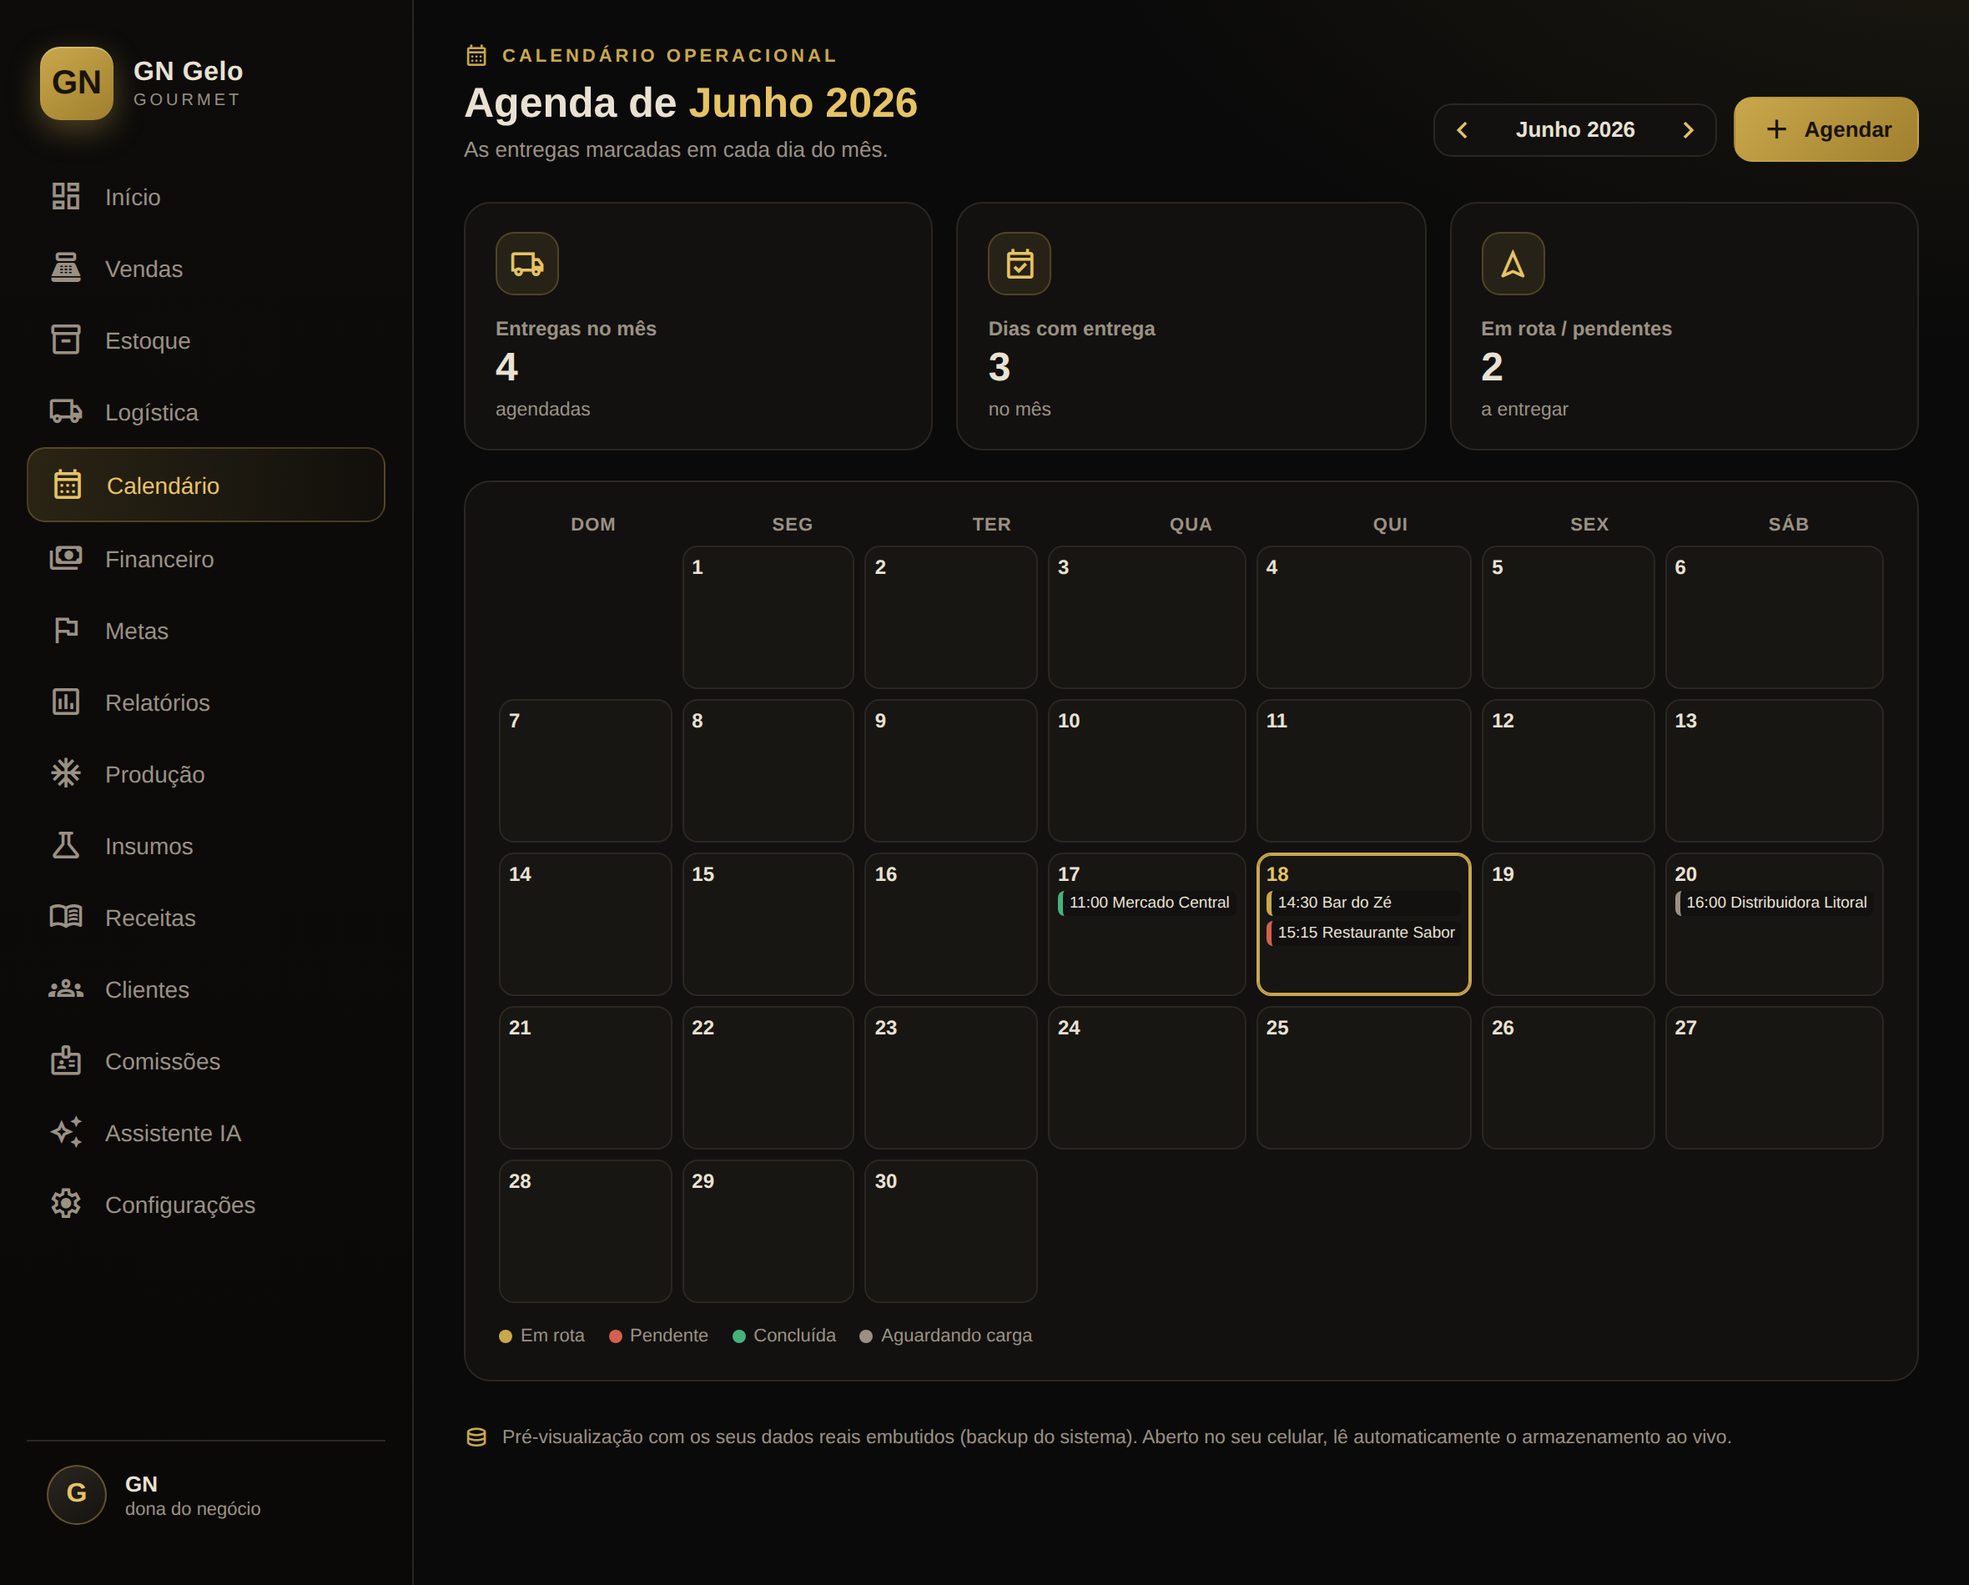
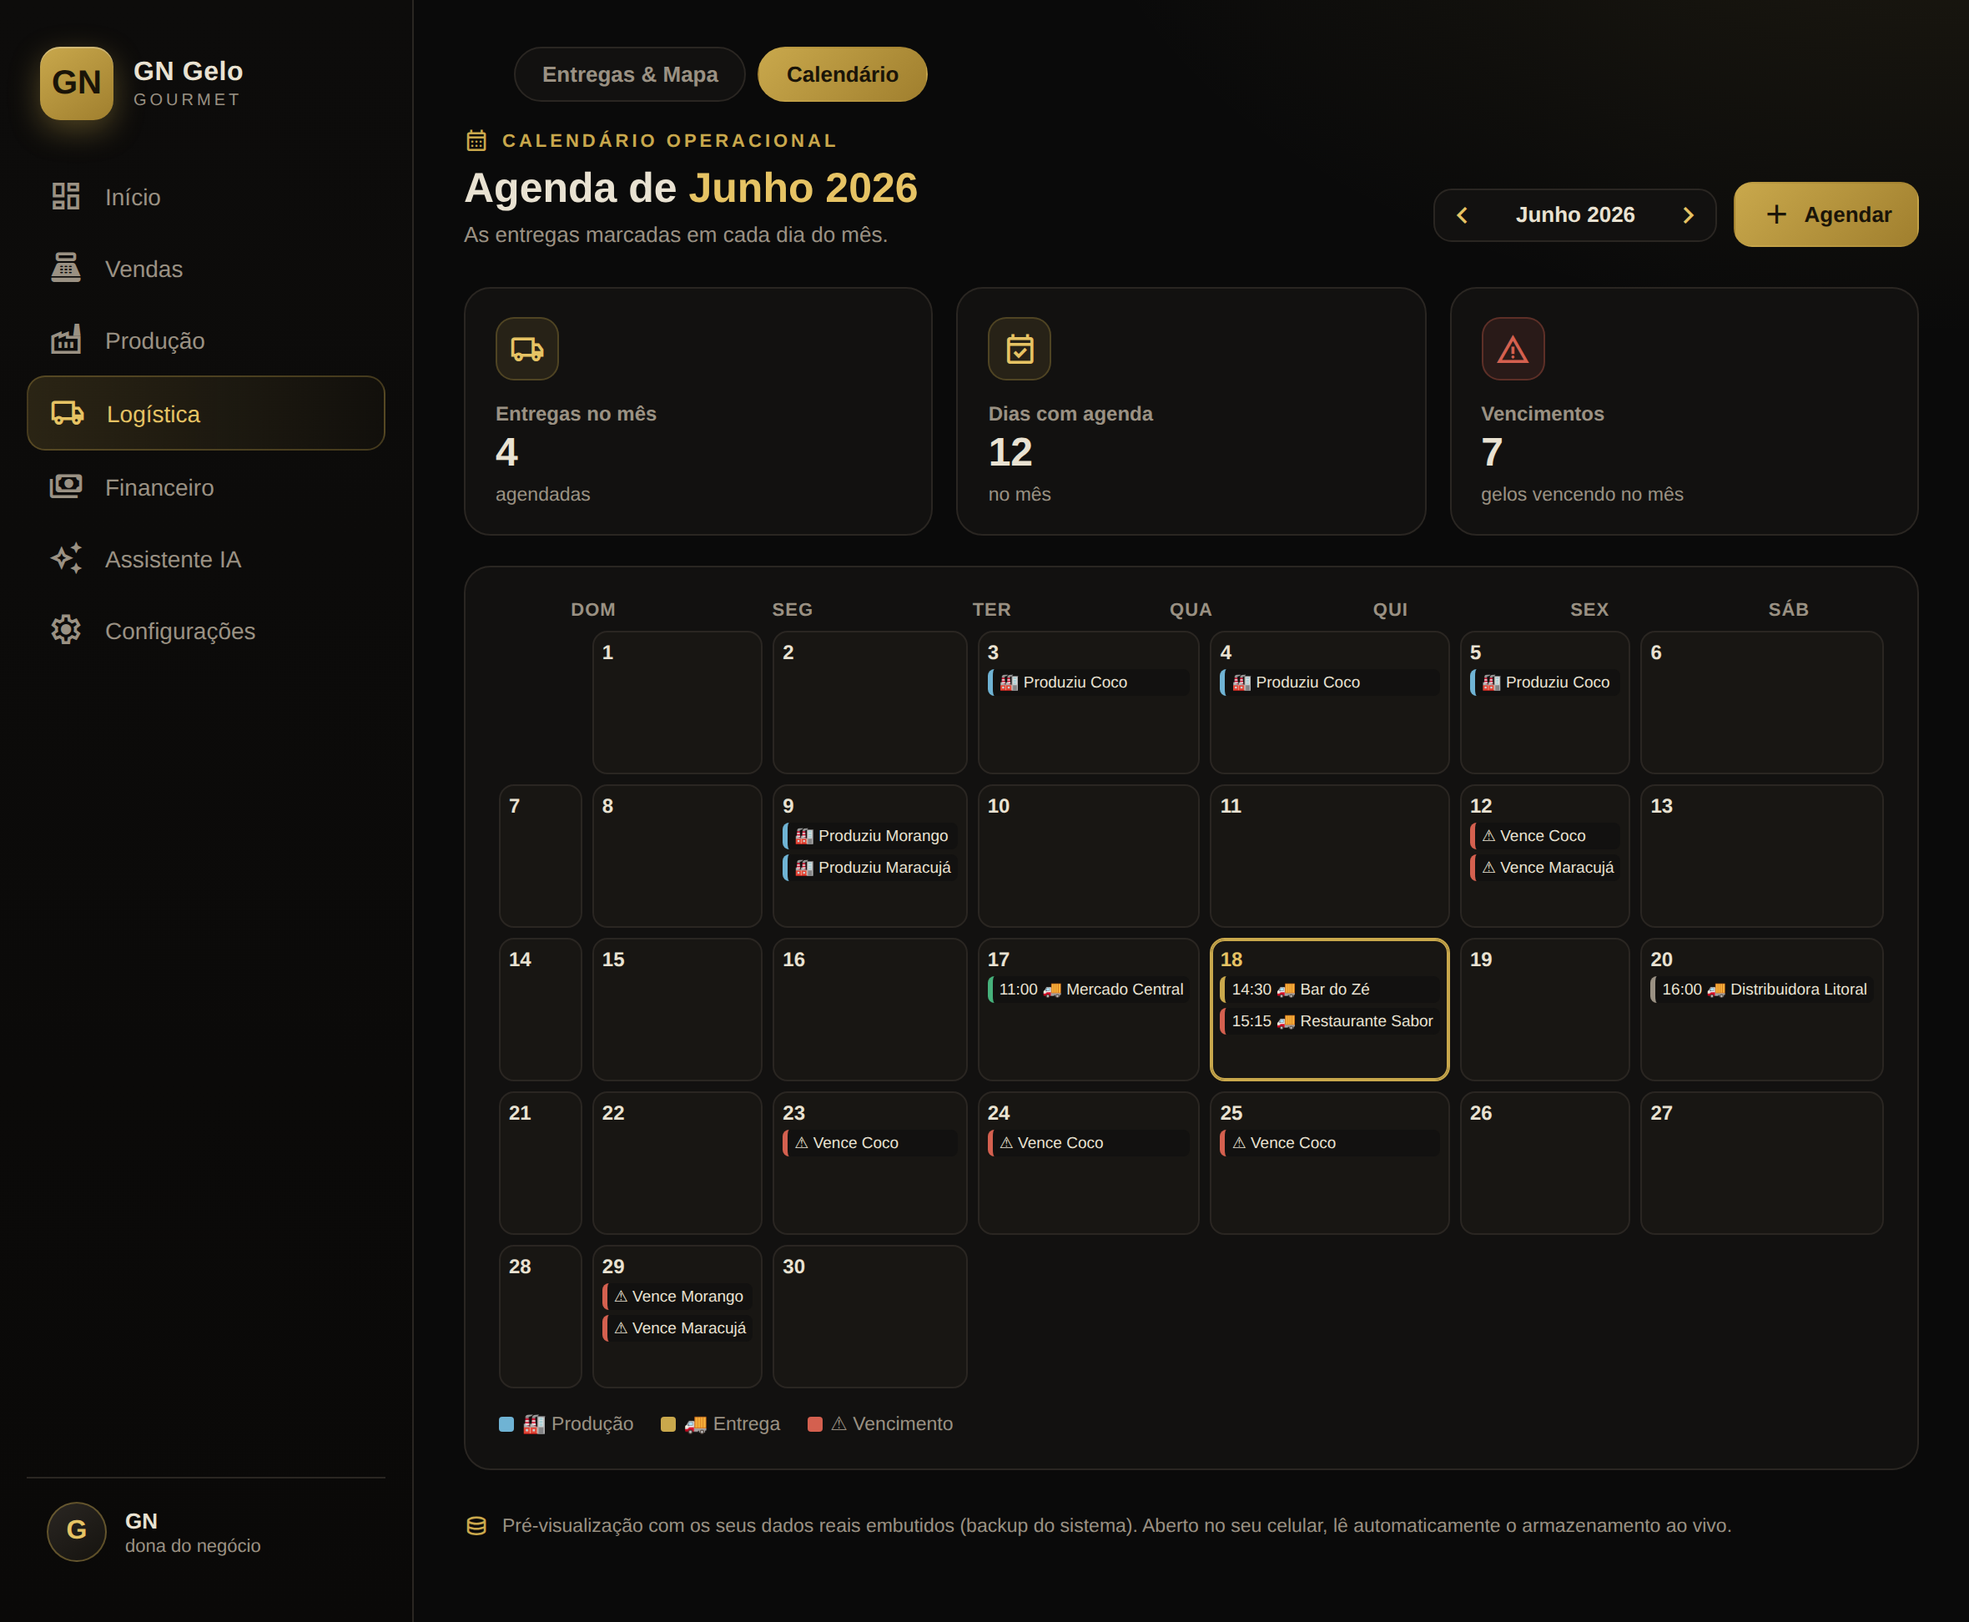
Menu agrupado (15->7 itens com sub-abas) + calendario com producao/vencimento/entrega
- Menu lateral reduzido a 7 grupos: Inicio, Vendas (Vendas/Clientes/Comissoes),
  Producao (Producao/Estoque/Insumos/Receitas), Logistica (Entregas/Calendario),
  Financeiro (Financeiro/Metas/Relatorios), Assistente IA, Configuracoes.
  Barra de sub-abas no topo de cada grupo.
- Calendario operacional agora mostra 3 tipos: producao, vencimento e entrega
  (cor/icone por tipo), KPI de vencimentos do mes.
- Validade automatica na producao (parametro 'validade dias', padrao 20).

Claude-Session: https://claude.ai/code/session_01RocrFdSgqpqjfRy7x3VDmm

diff --git a/preview-dashboard-premium.html b/preview-dashboard-premium.html
@@ -163,6 +163,12 @@
   .money{font-weight:700}
   .pos{color:var(--green)}
   .foot-note{margin-top:26px;color:var(--muted);font-size:11.5px;display:flex;align-items:center;gap:8px}
+  /* Sub-abas dos grupos */
+  #subtabs{display:flex;gap:7px;flex-wrap:wrap;padding:0 30px;margin:2px 0 16px}
+  .subtab{background:var(--panel);border:1px solid var(--line);color:var(--muted);border-radius:999px;padding:8px 16px;font-size:13px;font-weight:600;cursor:pointer;font-family:inherit;transition:.15s}
+  .subtab:hover{color:var(--cream)}
+  .subtab.on{background:linear-gradient(135deg,var(--gold),#a07f2e);color:#1a1408;border-color:transparent}
+  @media(max-width:900px){#subtabs{padding:0 16px;margin-top:0;overflow-x:auto;flex-wrap:nowrap;-webkit-overflow-scrolling:touch}}
   /* Barra de menu mobile */
   .mobile-bar{display:none}
   .backdrop{display:none}
@@ -195,21 +201,13 @@
       <div><b>GN Gelo</b><span>Gourmet</span></div>
     </div>
     <nav>
-      <a class="active" data-view="dashboard"><span class="sym">dashboard</span> Início</a>
-      <a data-view="vendas"><span class="sym">point_of_sale</span> Vendas</a>
-      <a data-view="estoque"><span class="sym">inventory_2</span> Estoque</a>
-      <a data-view="logistica"><span class="sym">local_shipping</span> Logística</a>
-      <a data-view="calendario"><span class="sym">calendar_month</span> Calendário</a>
-      <a data-view="financeiro"><span class="sym">payments</span> Financeiro</a>
-      <a data-view="metas"><span class="sym">flag</span> Metas</a>
-      <a data-view="relatorios"><span class="sym">assessment</span> Relatórios</a>
-      <a data-view="producao"><span class="sym">ac_unit</span> Produção</a>
-      <a data-view="insumos"><span class="sym">science</span> Insumos</a>
-      <a data-view="receitas"><span class="sym">menu_book</span> Receitas</a>
-      <a data-view="clientes"><span class="sym">groups</span> Clientes</a>
-      <a data-view="comissoes"><span class="sym">badge</span> Comissões</a>
-      <a data-view="ia"><span class="sym">auto_awesome</span> Assistente IA</a>
-      <a data-view="config"><span class="sym">settings</span> Configurações</a>
+      <a class="active" data-group="dashboard" data-view="dashboard"><span class="sym">dashboard</span> Início</a>
+      <a data-group="vendas" data-view="vendas"><span class="sym">point_of_sale</span> Vendas</a>
+      <a data-group="producao" data-view="producao"><span class="sym">factory</span> Produção</a>
+      <a data-group="logistica" data-view="logistica"><span class="sym">local_shipping</span> Logística</a>
+      <a data-group="financeiro" data-view="financeiro"><span class="sym">payments</span> Financeiro</a>
+      <a data-group="ia" data-view="ia"><span class="sym">auto_awesome</span> Assistente IA</a>
+      <a data-group="config" data-view="config"><span class="sym">settings</span> Configurações</a>
     </nav>
     <div class="side-foot">
       <div class="avatar">G</div>
@@ -224,6 +222,7 @@
      <div class="logo">GN</div><b>GN Gelo</b>
      <div class="ham" onclick="toggleMenu()"><span class="sym">menu</span></div>
    </div>
+   <div id="subtabs"></div>
    <!-- ============ TELA: INÍCIO ============ -->
    <div class="view active" id="view-dashboard">
     <div class="top">
@@ -409,17 +408,16 @@
     </div>
     <div class="kpis" style="grid-template-columns:repeat(3,1fr)">
       <div class="kpi"><div class="ic"><span class="sym">local_shipping</span></div><div class="k-lbl">Entregas no mês</div><div class="k-val" id="ca-tot">—</div><div class="k-foot">agendadas</div></div>
-      <div class="kpi"><div class="ic"><span class="sym">event_available</span></div><div class="k-lbl">Dias com entrega</div><div class="k-val" id="ca-dias">—</div><div class="k-foot">no mês</div></div>
-      <div class="kpi"><div class="ic"><span class="sym">navigation</span></div><div class="k-lbl">Em rota / pendentes</div><div class="k-val" id="ca-pend">—</div><div class="k-foot">a entregar</div></div>
+      <div class="kpi"><div class="ic"><span class="sym">event_available</span></div><div class="k-lbl">Dias com agenda</div><div class="k-val" id="ca-dias">—</div><div class="k-foot">no mês</div></div>
+      <div class="kpi"><div class="ic" style="background:rgba(212,96,79,.12);border-color:rgba(212,96,79,.3);color:var(--red)"><span class="sym">warning</span></div><div class="k-lbl">Vencimentos</div><div class="k-val" id="ca-pend">—</div><div class="k-foot">gelos vencendo no mês</div></div>
     </div>
     <div class="card">
       <div class="cal-head"><span>Dom</span><span>Seg</span><span>Ter</span><span>Qua</span><span>Qui</span><span>Sex</span><span>Sáb</span></div>
       <div class="cal-grid" id="ca-grid"></div>
-      <div style="display:flex;gap:14px;flex-wrap:wrap;font-size:11px;margin-top:14px">
-        <span style="display:flex;align-items:center;gap:5px;color:var(--muted)"><span style="width:8px;height:8px;border-radius:50%;background:#C9A84C"></span>Em rota</span>
-        <span style="display:flex;align-items:center;gap:5px;color:var(--muted)"><span style="width:8px;height:8px;border-radius:50%;background:#d4604f"></span>Pendente</span>
-        <span style="display:flex;align-items:center;gap:5px;color:var(--muted)"><span style="width:8px;height:8px;border-radius:50%;background:#46b17b"></span>Concluída</span>
-        <span style="display:flex;align-items:center;gap:5px;color:var(--muted)"><span style="width:8px;height:8px;border-radius:50%;background:#9a9183"></span>Aguardando carga</span>
+      <div style="display:flex;gap:16px;flex-wrap:wrap;font-size:11.5px;margin-top:14px">
+        <span style="display:flex;align-items:center;gap:5px;color:var(--muted)"><span style="width:9px;height:9px;border-radius:2px;background:#6fb3d4"></span>🏭 Produção</span>
+        <span style="display:flex;align-items:center;gap:5px;color:var(--muted)"><span style="width:9px;height:9px;border-radius:2px;background:#C9A84C"></span>🚚 Entrega</span>
+        <span style="display:flex;align-items:center;gap:5px;color:var(--muted)"><span style="width:9px;height:9px;border-radius:2px;background:#d4604f"></span>⚠ Vencimento</span>
       </div>
     </div>
    </div><!-- /view-calendario -->
@@ -968,13 +966,13 @@ const SEED={
   {id:"v2",nome:"Bianca",com:5}
  ],
  producoes:[
-  {data:"2026-05-23",sabor:"coco",qtd:288,custoPorUnid:0.5151},
-  {data:"2026-05-23",sabor:"maracuja",qtd:72,custoPorUnid:0.5151},
-  {data:"2026-06-03",sabor:"coco",qtd:100,custoPorUnid:0.5151},
-  {data:"2026-06-04",sabor:"coco",qtd:360,custoPorUnid:0.5151},
-  {data:"2026-06-05",sabor:"coco",qtd:78,custoPorUnid:0.5151},
-  {data:"2026-06-09",sabor:"morango",qtd:72,custoPorUnid:0.5151},
-  {data:"2026-06-09",sabor:"maracuja",qtd:72,custoPorUnid:0.5151}
+  {data:"2026-05-23",sabor:"coco",qtd:288,custoPorUnid:0.5151,validade:"2026-06-12"},
+  {data:"2026-05-23",sabor:"maracuja",qtd:72,custoPorUnid:0.5151,validade:"2026-06-12"},
+  {data:"2026-06-03",sabor:"coco",qtd:100,custoPorUnid:0.5151,validade:"2026-06-23"},
+  {data:"2026-06-04",sabor:"coco",qtd:360,custoPorUnid:0.5151,validade:"2026-06-24"},
+  {data:"2026-06-05",sabor:"coco",qtd:78,custoPorUnid:0.5151,validade:"2026-06-25"},
+  {data:"2026-06-09",sabor:"morango",qtd:72,custoPorUnid:0.5151,validade:"2026-06-29"},
+  {data:"2026-06-09",sabor:"maracuja",qtd:72,custoPorUnid:0.5151,validade:"2026-06-29"}
  ],
  estoque:{coco:845,morango:62,maracuja:121,maca:0,manga:0,melancia:0,limao:0,iceblue:0,energetico:0,frutas:0,amora:0,abacaxi:0,salLimao:0,uva:0,chiclete:0,cereja:0,morPessego:0,brasil:0,bobMarley:0,laranja:0,balaHouse:0,combo10:0,combo20:0,combo50:0,combo100:0},
  gastos:[
@@ -1478,23 +1476,28 @@ function renderLogistica(){
 function renderCalendario(){
   const {m,ano,mes,nome}=mesCtx();
   fillMesNav("ca-mesnav"); T("ca-mes",nome);
+  const porDia={};
+  const addEv=(dataStr,ev)=>{ if(!(dataStr||"").startsWith(m))return; const dd=dataStr.slice(8); (porDia[dd]=porDia[dd]||[]).push(ev); };
   const ent=getEnt().filter(e=>(e.data||"").startsWith(m));
-  T("ca-tot",ent.length);
-  T("ca-pend",ent.filter(e=>e.status==="Em rota"||e.status==="Pendente").length);
-  const porDia={}; ent.forEach(e=>{const d=(e.data||"").slice(8);if(d)(porDia[d]=porDia[d]||[]).push(e);});
-  T("ca-dias",Object.keys(porDia).length);
+  ent.forEach(e=>addEv(e.data,{ordem:1,cor:ST_COR[e.status]||"#888",txt:(e.eta?e.eta+" ":"")+"🚚 "+e.cliente}));
+  let vencimentos=0;
+  getPr().forEach(p=>{
+    addEv(p.data,{ordem:0,cor:"#6fb3d4",txt:"🏭 Produziu "+(SB[p.sabor]||p.sabor)});
+    if(p.validade){ addEv(p.validade,{ordem:2,cor:"#d4604f",txt:"⚠ Vence "+(SB[p.sabor]||p.sabor)}); if(p.validade.startsWith(m))vencimentos++; }
+  });
+  T("ca-tot",ent.length); T("ca-dias",Object.keys(porDia).length); T("ca-pend",vencimentos);
   const a=+ano,mo=+mes;
-  const primeiro=new Date(a,mo-1,1).getDay();      // 0=Dom
+  const primeiro=new Date(a,mo-1,1).getDay();
   const diasNoMes=new Date(a,mo,0).getDate();
   const hojeStr=new Date().toISOString().slice(0,10);
   let cells="";
   for(let i=0;i<primeiro;i++) cells+=`<div class="cal-cell cal-empty"></div>`;
   for(let d=1;d<=diasNoMes;d++){
-    const dd=String(d).padStart(2,"0"); const evs=(porDia[dd]||[]).sort((x,y)=>(x.eta||"").localeCompare(y.eta||""));
+    const dd=String(d).padStart(2,"0"); const evs=(porDia[dd]||[]).sort((x,y)=>x.ordem-y.ordem);
     const isHoje=(a+"-"+String(mo).padStart(2,"0")+"-"+dd)===hojeStr;
     cells+=`<div class="cal-cell${isHoje?' cal-hoje':''}">
       <div class="cal-num">${d}</div>
-      ${evs.slice(0,3).map(e=>`<div class="cal-ev" style="border-left:3px solid ${ST_COR[e.status]||'#888'}" title="${e.cliente} · ${e.status} · ${e.eta||''}">${e.eta?e.eta+' ':''}${e.cliente}</div>`).join("")}
+      ${evs.slice(0,3).map(e=>`<div class="cal-ev" style="border-left:3px solid ${e.cor}" title="${e.txt}">${e.txt}</div>`).join("")}
       ${evs.length>3?`<div class="cal-mais">+${evs.length-3} mais</div>`:''}
     </div>`;
   }
@@ -1588,7 +1591,8 @@ function restaurarBackup(input){
 }
 
 /* ===== REGISTRAR (venda/produção/gasto) — multi-itens, grava de verdade ===== */
-const PARAMS=()=>Object.assign({imp:6,margem:40,acucar:0.005,fkm:2.5,com:0},get("params",null)||{});
+const PARAMS=()=>Object.assign({imp:6,margem:40,acucar:0.005,fkm:2.5,validadeDias:20,com:0},get("params",null)||{});
+function addDias(d,n){const dt=new Date(d+"T00:00:00");dt.setDate(dt.getDate()+n);return dt.toISOString().slice(0,10);}
 const SABORES_VENDA=Object.keys(SB).filter(k=>!k.startsWith("combo"));
 const hoje=()=>new Date().toISOString().slice(0,10);
 const sabOpts=()=>SABORES_VENDA.map(k=>`<option value="${k}">${SB[k]}</option>`).join("");
@@ -1725,7 +1729,7 @@ function salvarProducao(){
     // aplica o novo
     est[sabor]=(est[sabor]||0)+q;
     Object.keys(recIns()).forEach(n=>{if(ie[n])ie[n]={...ie[n],qtd:Math.max(0,(ie[n].qtd||0)-q*recIns()[n])};});
-    prod[idx]={...old,data,sabor,qtd:q,custoPorUnid:custoSabor(sabor),custoTotal:q*custoSabor(sabor),resp};
+    prod[idx]={...old,data,sabor,qtd:q,custoPorUnid:custoSabor(sabor),custoTotal:q*custoSabor(sabor),resp,validade:addDias(data,PARAMS().validadeDias)};
     set("producoes",prod); set("estoque",est); set("insumoEst",ie); EDIT_P=null; fecharModal(); rerenderAll(); show("producao"); return;
   }
   const linhas=[...document.querySelectorAll("#p-linhas .linha")];
@@ -1736,7 +1740,7 @@ function salvarProducao(){
   linhas.forEach((l,i)=>{
     const sabor=l.querySelector(".p-sab").value,q=+l.querySelector(".p-qtd").value||0;
     if(q<=0)return;
-    prod.push({id:Date.now()+i,data,sabor,qtd:q,custoPorUnid:custoSabor(sabor),custoTotal:q*custoSabor(sabor),resp});
+    prod.push({id:Date.now()+i,data,sabor,qtd:q,custoPorUnid:custoSabor(sabor),custoTotal:q*custoSabor(sabor),resp,validade:addDias(data,PARAMS().validadeDias)});
     est[sabor]=(est[sabor]||0)+q; totalQtd+=q; add++;
   });
   if(!add){alert("Adicione ao menos um sabor com quantidade.");return;}
@@ -2227,22 +2231,38 @@ function salvarCliente(){
   set("clientes",cls); fecharModal(); rerenderAll(); show("clientes");
 }
 
-/* ===== Navegação entre telas ===== */
+/* ===== Navegação: grupos + sub-abas ===== */
+const GRUPOS=[
+  {nav:"dashboard",views:[["dashboard","Início"]]},
+  {nav:"vendas",views:[["vendas","Vendas"],["clientes","Clientes"],["comissoes","Comissões"]]},
+  {nav:"producao",views:[["producao","Produção"],["estoque","Estoque"],["insumos","Insumos"],["receitas","Receitas"]]},
+  {nav:"logistica",views:[["logistica","Entregas & Mapa"],["calendario","Calendário"]]},
+  {nav:"financeiro",views:[["financeiro","Financeiro"],["metas","Metas"],["relatorios","Relatórios"]]},
+  {nav:"ia",views:[["ia","Assistente IA"]]},
+  {nav:"config",views:[["config","Configurações"]]}
+];
+function grupoDoView(view){return GRUPOS.find(g=>g.views.some(v=>v[0]===view));}
 function toggleMenu(){document.querySelector(".shell").classList.toggle("open");}
 function show(view){
   document.querySelectorAll(".view").forEach(v=>v.classList.remove("active"));
   const el=document.getElementById("view-"+view); if(el)el.classList.add("active");
-  document.querySelectorAll("nav a").forEach(a=>a.classList.toggle("active",a.dataset.view===view));
+  const g=grupoDoView(view);
+  document.querySelectorAll("nav a").forEach(a=>a.classList.toggle("active", g && a.dataset.group===g.nav));
+  // sub-abas do grupo
+  const st=document.getElementById("subtabs");
+  if(g && g.views.length>1){ st.style.display="flex";
+    st.innerHTML=g.views.map(([v,lb])=>`<button class="subtab${v===view?' on':''}" onclick="show('${v}')">${lb}</button>`).join("");
+  } else { st.style.display="none"; st.innerHTML=""; }
   document.querySelector(".shell").classList.remove("open"); // fecha o menu no mobile
   window.scrollTo(0,0);
-  if(view==="logistica") setTimeout(renderLogistica,30); // (re)monta o mapa real já visível
+  if(view==="logistica") setTimeout(renderLogistica,30);
 }
 document.querySelectorAll("nav a").forEach(a=>a.addEventListener("click",()=>show(a.dataset.view)));
 
 /* Render inicial de todas as telas */
 render(); renderVendas(); renderEstoque(); renderLogistica(); renderCalendario(); renderFinanceiro(); renderMetas(); renderRelatorios(); renderProducao(); renderInsumos(); renderReceitas(); renderClientes(); renderComissoes(); renderIA(); renderConfig();
 const _qv=new URLSearchParams(location.search).get("v");
-if(_qv) show(_qv);
+show(_qv||"dashboard");
 ensureDepot(); // busca o endereço do depósito no aparelho (1ª vez)
 </script>
 </body>
